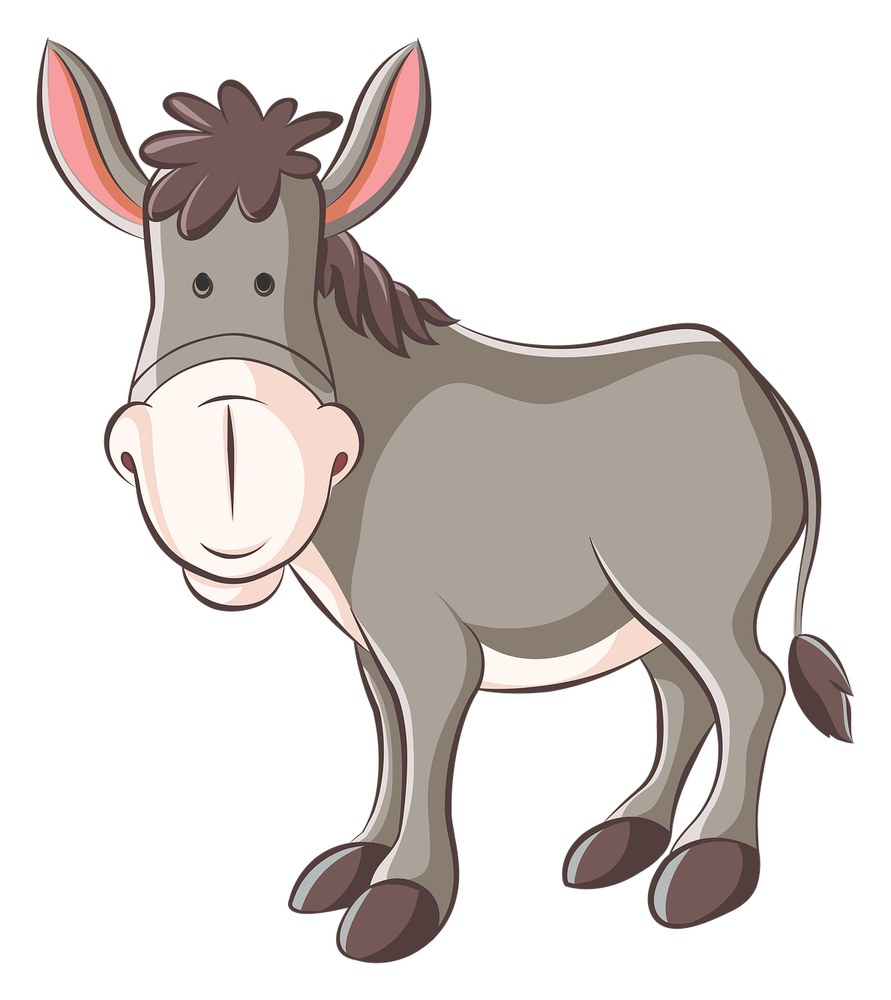
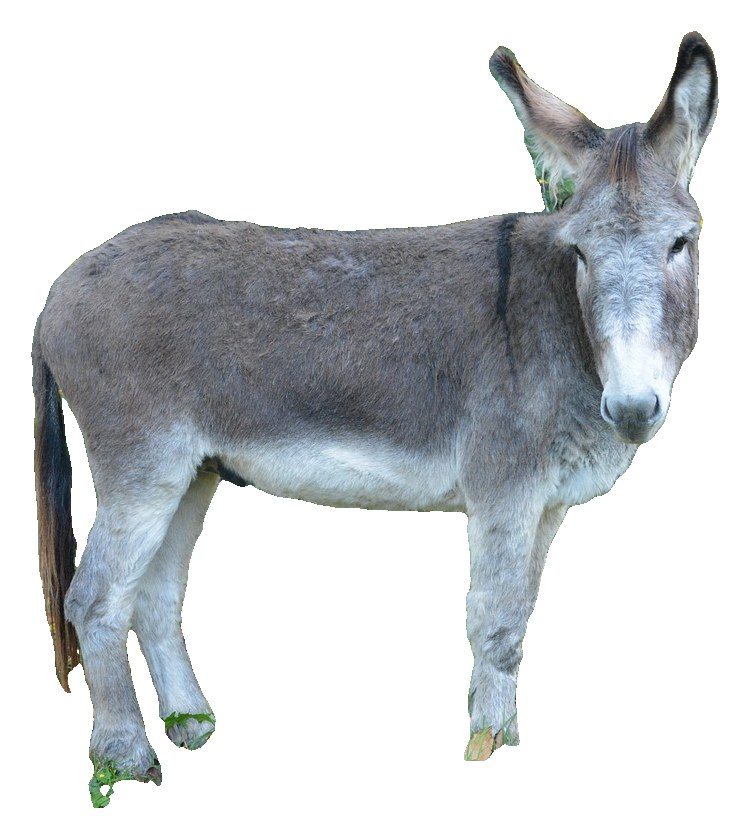
Новые фото 11 животных и игрушек, темы Техника, Головные уборы, Инструменты, Обувь
- Лиса, волк, лось, свинья, коза, собака, хомяк, овца, осёл, пирамидка,
  погремушка: настоящие фото, предмет целиком на белом фоне.
- Четыре новые темы по 10 слов, на первом экране 16 тем.
- Длинное слово сверху само уменьшается, если не влезает в экран.
- Версия 23.

diff --git a/app.js b/app.js
@@ -14,7 +14,11 @@
     { name: "Фрукты", cover: "груша", words: ["яблоко", "банан", "груша", "апельсин", "лимон", "виноград", "слива", "персик", "ананас", "киви"] },
     { name: "Дикие животные", cover: "медведь", words: ["волк", "лиса", "медведь", "заяц", "ёж", "белка", "лось", "тигр", "слон", "жираф"] },
     { name: "Домашние животные", cover: "кошка", words: ["кошка", "собака", "корова", "лошадь", "свинья", "коза", "овца", "кролик", "осёл", "хомяк"] },
-    { name: "Игрушки", cover: "мишка", words: ["мяч", "кукла", "мишка", "кубики", "пирамидка", "юла", "неваляшка", "матрёшка", "погремушка", "машинка"] }
+    { name: "Игрушки", cover: "мишка", words: ["мяч", "кукла", "мишка", "кубики", "пирамидка", "юла", "неваляшка", "матрёшка", "погремушка", "машинка"] },
+    { name: "Техника", cover: "телевизор", words: ["холодильник", "телевизор", "стиральная машина", "пылесос", "утюг", "микроволновка", "телефон", "ноутбук", "фен", "миксер"] },
+    { name: "Головные уборы", cover: "кепка", words: ["шапка", "кепка", "шляпа", "панама", "берет", "платок", "ушанка", "каска", "шлем", "фуражка"] },
+    { name: "Инструменты", cover: "молоток", words: ["молоток", "отвёртка", "пила", "топор", "плоскогубцы", "гаечный ключ", "дрель", "лопата", "грабли", "рулетка"] },
+    { name: "Обувь", cover: "кроссовки", words: ["ботинки", "сапоги", "туфли", "кроссовки", "тапочки", "валенки", "сандалии", "кеды", "шлёпанцы", "босоножки"] }
   ];
 
   var PRAISE = ["Вы хорошо поработали!", "Хорошая работа!", "Отличное занятие!"];
@@ -72,6 +76,21 @@
     }
     return copy;
   }
+
+  // Длинное слово («микроволновка») на узком экране не помещается: уменьшаем шрифт, пока слово не влезет
+  function fitWord() {
+    var word = el.word;
+    word.style.fontSize = "";
+    if (word.hidden) { return; }
+    var size = parseFloat(getComputedStyle(word).fontSize);
+    while (word.scrollWidth > word.clientWidth + 1 && size > 20) {
+      size -= 2;
+      word.style.fontSize = size + "px";
+    }
+  }
+
+  window.addEventListener("resize", fitWord);
+  if (document.fonts && document.fonts.ready) { document.fonts.ready.then(fitWord); }
 
   function isValidCount(value) {
     return COUNTS.indexOf(value) !== -1;
@@ -170,6 +189,7 @@
 
     el.word.textContent = word;
     el.word.hidden = wordMode;
+    fitWord();
     el.picture.hidden = !wordMode;
     if (wordMode) { el.pictureImg.src = photo(word); }
     el.counter.textContent = (position + 1) + " из " + queue.length;

diff --git a/sw.js b/sw.js
@@ -1,6 +1,6 @@
 // Работа без интернета: при установке все файлы приложения сохраняются на устройстве.
 // ПРИ КАЖДОЙ ВЫКЛАДКЕ ПОВЫШАЙ НОМЕР ВЕРСИИ, иначе телефон будет показывать старую версию.
-const VERSION = 22;
+const VERSION = 23;
 
 const PREFIX = "slovo-za-slovom-v";
 const CACHE = PREFIX + VERSION;
@@ -18,7 +18,11 @@ const WORDS = [
   "груша", "апельсин", "лимон", "виноград", "слива", "персик", "ананас", "киви",
   "волк", "лиса", "медведь", "заяц", "ёж", "белка", "лось", "тигр", "слон", "жираф",
   "кошка", "собака", "корова", "лошадь", "свинья", "коза", "овца", "кролик", "осёл", "хомяк",
-  "мяч", "кукла", "мишка", "кубики", "пирамидка", "юла", "неваляшка", "матрёшка", "погремушка", "машинка"
+  "мяч", "кукла", "мишка", "кубики", "пирамидка", "юла", "неваляшка", "матрёшка", "погремушка", "машинка",
+  "холодильник", "телевизор", "стиральная машина", "пылесос", "утюг", "микроволновка", "телефон", "ноутбук", "фен", "миксер",
+  "шапка", "кепка", "шляпа", "панама", "берет", "платок", "ушанка", "каска", "шлем", "фуражка",
+  "молоток", "отвёртка", "пила", "топор", "плоскогубцы", "гаечный ключ", "дрель", "лопата", "грабли", "рулетка",
+  "ботинки", "сапоги", "туфли", "кроссовки", "тапочки", "валенки", "сандалии", "кеды", "шлёпанцы", "босоножки"
 ];
 
 const FILES = [
